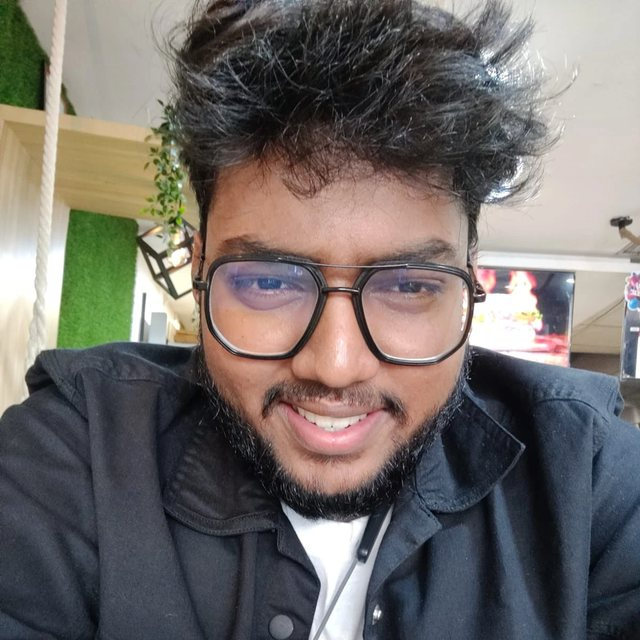
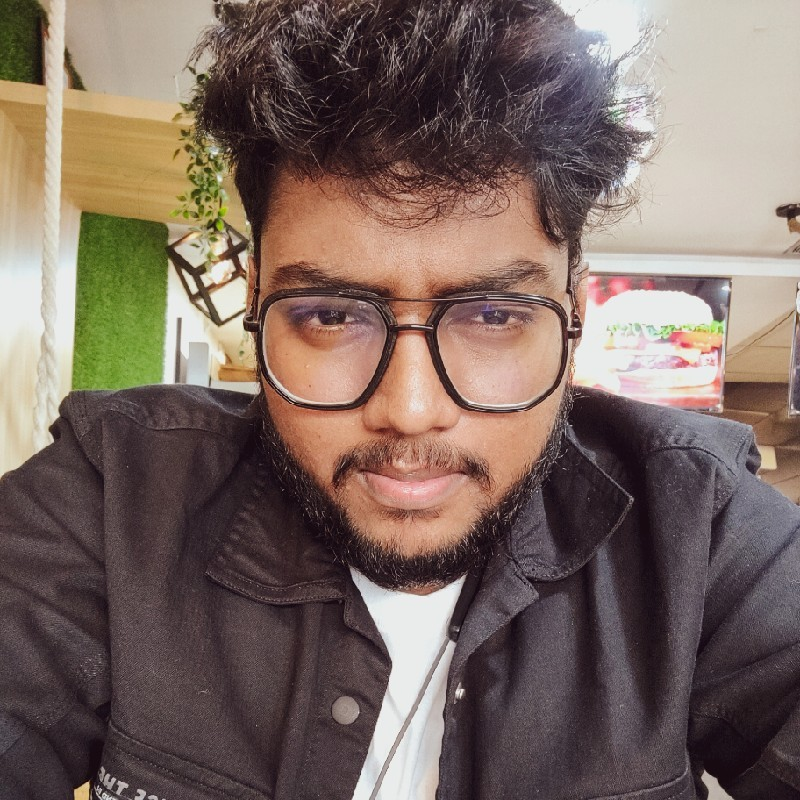
Manrope wordmark, wider layout (1600px), looser heading tracking, new Salvino photo

diff --git a/app/layout.tsx b/app/layout.tsx
@@ -1,11 +1,18 @@
 import type { Metadata, Viewport } from "next";
-import { Inter_Tight, Inter, JetBrains_Mono } from "next/font/google";
+import { Inter_Tight, Inter, Manrope, JetBrains_Mono } from "next/font/google";
 import "./globals.css";
 
 // Variable font (no weight list) so intermediate weights like 575 work.
 const interTight = Inter_Tight({
   subsets: ["latin"],
   variable: "--font-inter-tight",
+  display: "swap",
+});
+
+const manrope = Manrope({
+  subsets: ["latin"],
+  weight: ["700"],
+  variable: "--font-manrope",
   display: "swap",
 });
 
@@ -98,7 +105,7 @@ export default function RootLayout({
   return (
     <html
       lang="en"
-      className={`${interTight.variable} ${inter.variable} ${jetbrainsMono.variable}`}
+      className={`${interTight.variable} ${manrope.variable} ${inter.variable} ${jetbrainsMono.variable}`}
     >
       <body className="bg-bg font-sans text-text-primary antialiased">
         <script

diff --git a/tailwind.config.ts b/tailwind.config.ts
@@ -49,12 +49,12 @@ const config: Config = {
         mono: ["var(--font-jetbrains-mono)", "ui-monospace", "monospace"],
       },
       letterSpacing: {
-        display: "-0.04em",
-        tight2: "-0.03em",
+        display: "-0.03em",
+        tight2: "-0.025em",
         wide: "0.02em",
       },
       borderRadius: { btn: "12px", card: "18px", panel: "48px" },
-      maxWidth: { site: "1280px" },
+      maxWidth: { site: "1600px" },
       boxShadow: {
         float: "0 12px 36px -8px rgba(21,21,24,0.10)",
         ring: "0 0 0 0.5px rgb(var(--border-active))",

diff --git a/components/ui/Logo.tsx b/components/ui/Logo.tsx
@@ -43,7 +43,7 @@ export function Logo({ variant = "full", className, accentDot = false }: LogoPro
       )}
     >
       <FlowStateIcon className="h-9 w-9 shrink-0" />
-      <span className="text-[1.35rem] font-semibold leading-none tracking-tight2">
+      <span className="font-[family-name:var(--font-manrope)] text-[1.35rem] font-bold leading-none tracking-[-0.03em]">
         Flowstate
       </span>
     </span>
